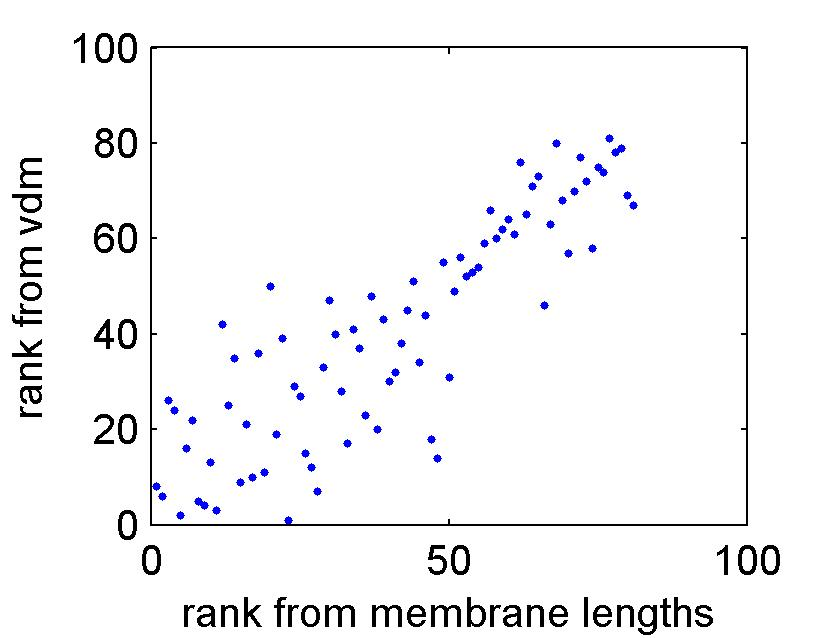
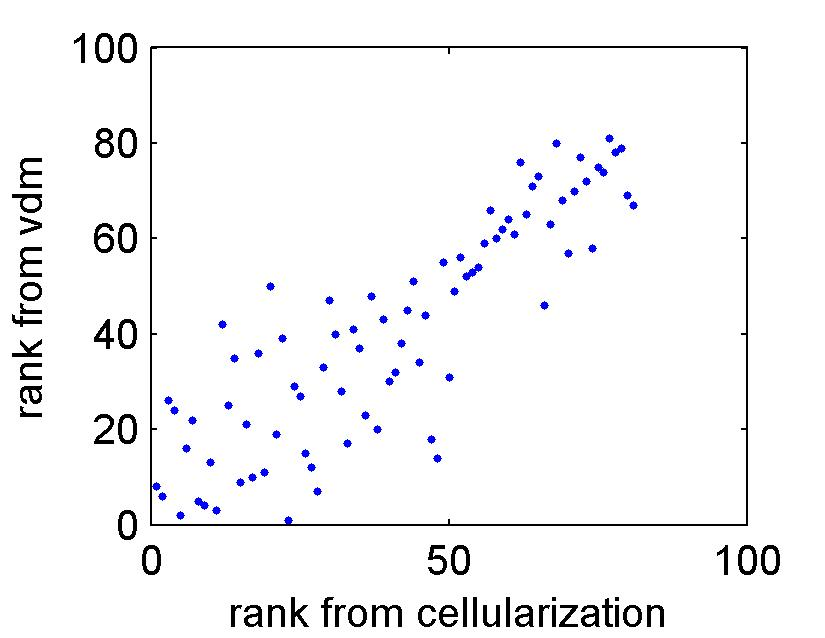
updated paper

Changed region(s): [[0.4848, 0.9232, 0.8788, 1.0], [0.2121, 0.9232, 0.4545, 0.9828]]

diff --git a/image_analysis_paper/pnas_draft.tex b/image_analysis_paper/pnas_draft.tex
@@ -230,7 +230,9 @@ Is this information essential?
 %
 Below we show that this is not the case and that both the temporal ordering and registration of images can be fully automated, without prior information about the underlying dynamics. 
 %
-Our algorithmic approach is based on diffusion maps, a broadly applicable technique for the discovery of low-dimensional structures in high-dimensional data sets. 
+Our temporal ordering analysis is based on diffusion maps, a broadly applicable technique for the discovery of low-dimensional structures in high-dimensional data sets.
+%
+Our image registration is done via angular synchronization, a relatively new technique for registering images which has been applied to reconstructing the three-dimensional structure of molecules from cryo-electron microscopy \cite{singer2011three}; here, we will use the algorithm to register {\em Drosophila} images.
 %
 The paper is organized as follows. 
 %
@@ -245,17 +247,19 @@ We conclude by discussion of the general requirements that must be satisfied for
 
 \section{Results and Discussion}
 
-We will first demonstrate our techniques considering {\em only} considering rotations. 
+We will first demonstrate our techniques using one-dimensional concentrations profiles.
 %
-We have converted the two-dimensional images shown in Figure \ref{subfig:images_scrambled} into concentration profiles on a ring (we will address the full two-dimensional images in a subsequent section).
+We have converted the two-dimensional images shown in Figure \ref{subfig:images_scrambled} into profiles defined on a ring, corresponding to the concentrations around the periphery of the embryo (we will address the full two-dimensional images in a subsequent section).
 %
-Figure \ref{subfig:1d_image_example} shows a typical image that we have converted to a one-dimensional concentration profile; the profile is discretized into 100 points. 
+Figure \ref{subfig:1d_image_example} shows a typical image that we have converted to a one-dimensional profile; the profile is discretized into 100 points, and so our signals will be 200-dimensional vectors (100 dimensions correspond to the red channel at the 100 discretization points, and 100 dimensions correspond to the green channel at the 100 discretization points). 
 %
-Rotation of this image corresponds to shifting (with periodic boundary conditions) the one--dimensional concentration profile. 
+Rotation of this image corresponds to shifting (with periodic boundary conditions) the one-dimensional concentration profile shown in the bottom of Figure \ref{subfig:1d_image_example}. 
 %
 Figure \ref{subfig:1d_unaligned_unordered} shows the concentration profiles for all the images in our data set. 
 %
 The concentration profiles have been stacked in an array, such that each row corresponds to one image.
+%
+The task is now to shift each profile left and right to optimally register/align the signals, and then temporally order the rows in the array to reconstruct the developmental trajectory.
 
 \subsection{Angular synchronization for image registration}
 
@@ -263,7 +267,7 @@ Often when one collects images in experiments, each image is taken in a differen
 %
 Therefore, the first task in image analysis is to align or {\em register} the set of images. 
 %
-This requires translating and rotating each image, so that the set of images are globally aligned.
+This requires rotating and/or translating each image, so that the set of images are globally aligned.
 
 There are many methods for image registration. 
 %
@@ -273,34 +277,33 @@ However, this method can result in many errors if the images are noisy, and can 
 %
 Instead, we will use a relatively new technique called angular synchronization\cite{singer2011angular} to register sets of images.
 %
-Angular synchronization first computes the pairwise alignments (translation + rotation) for every possible pair of images, effectively using each image as a template for every other image.
+Angular synchronization first computes the pairwise alignments (rotation for our one-dimensional profiles in Figure \ref{subfig:1d_unaligned_unordered}, or translation + rotation for the two-dimensional images in Figure \ref{subfig:images_scrambled}) for every possible pair of images, effectively using each image as a template for every other image.
 %
-From this large collection of pairwise alignments, it then tries to find the optimal translation and rotation for each image, such that these individual alignments are most consistent (in some metric) with the pairwise alignments.
+From this large collection of pairwise alignments, it then tries to find the optimal alignment for each image, such that these individual alignments are most consistent (in some metric) with the pairwise alignments (i.e., we would like the difference between the optimal rotations for two different concentration profiles to be as close as possible to the pairwise rotation needed to align the two profiles).
 %
-The algorithm solves this optimization problem by relaxing it to an eigenproblem; the top eigenvector(s) of a matrix (which contains information about the pairwise alignments) give the translation and rotation for each image.
+The algorithm solves this optimization problem by relaxing it to an eigenproblem; the top eigenvector(s) of a matrix (which contains information about the pairwise alignments) give the alignment for each image.
 %
 Because the method considers {\em all} pairwise alignments, angular synchronization is often much more robust to noise. 
 
 Figure \ref{subfig:1d_aligned_unordered} shows the concentration profiles from Figure~\ref{subfig:1d_unaligned_unordered}, now aligned using angular synchronization;
 the peaks are aligned, even though we input no information about the existence or location of these peaks into our algorithm.
 %
-We would like to note that, because angular synchronization only uses pairwise rotation information, the optimal rotations are recovered {\em up to} a global rotation, and we are permitted rotate every point by a constant rotation.
+We would like to note that, because angular synchronization only uses pairwise rotation information, the optimal rotations are recovered {\em up to} a global rotation; we are permitted rotate every point by a constant rotation.
 
 \subsection{Diffusion maps for temporal ordering}
 
 We will use diffusion maps (DMAPS) \cite{coifman2005geometric} to temporally order our data.
 %
-Although our data are high-dimensional (for example, we will work with 2-color images of 10000 pixels, and so we treat these images as 20000-dimensional vectors, where each dimension describes the intensity of one color in one pixel), we will assume that they lie on a one-dimensional, perhaps nonlinear curve.
+Although our data are high-dimensional (for example, we will work with 2-color images of 10000 pixels, and so our data are 20000-dimensional vectors, where each dimension describes the intensity of one color in one pixel), we will assume that they lie on a one-dimensional, but perhaps nonlinear, curve.
 %
-We further assume that curve can be parameterized by time.
+We further assume that this curve is monotonic in time.
 %
 Therefore, our goal is to {\em automatically} uncover a parameterization of this curve, so that we can sort/order our data along it, effectively ordering our data in time.
-
-To ``unravel'' this curve, we assume that data points which are close in the high-dimensional space should also be close on the curve.
 %
-We want to find a parameterization of the points, such that the points which are close in the original close are {\em as close as possible} in the parameterization.
+To parameterize this one-dimensional curve which lies in high-dimensional space, we assume that data points which are close in the high-dimensional space should also be close on the curve, 
+e.g, images which look similar will be close in the high-dimensional pixel space (they will have similar pixel intensities), and we would like these similar images to be close to each other in our trajectory.
 %
-This problem can be formulated as an optimization problem \cite{...}, and the solution is given by the top (non-trivial) eigenvector of a matrix which contains information about pairwise distances between the data points. 
+%We therefore want to find a parameterization of the points, such that the points which are close in the original, high-dimensional space are {\em as close as possible} in the parameterization.
 
 As an illustration of how local neighbors are important for parameterizing a curve, Figure~\ref{subfig:dmaps_edges} shows a data set which lies on a one-dimensional, nonlinear curve in two dimensions.
 %
@@ -309,14 +312,18 @@ The edges between the pairs of data points are colored according to the distance
 Visually, these dark edges are meaningful and informative of the structure of the data; they clearly delineate the one-dimensional curve in the data that our eye can extract.
 %
 Furthermore, the light edges are not informative and do not give any meaningful structure to the curve. 
+
+The problem of finding a parameterization of the data which forces nearby points together can be formulated as an optimization problem \cite{Belkin2003}, and the solution is given by the top (non-trivial) eigenvector of a matrix which contains information about pairwise distances between the data points. 
+%
+This procedure is called diffusion maps \cite{coifman2005geometric}; the formulation extends from curves to manifolds (i.e., we can search for an $n$-dimensional, rather than a one-dimensional, parameterization of the data, such that data points which are close in the high-dimensional space are also close in the $n$-dimensional parameterization). 
 %
 The DMAPS parameterization of these are data are shown in Figure~\ref{subfig:dmaps_color}.
 %
-The parameterization is what we would expect visually.
+The parameterization agrees with what our eye can detect visually.
 %
-Although this data is useful for illustrative purposes, it is 
+However, we will work with very high-dimensional data, rather than these two-dimensional data points; we therefore have no easy way to plot and visualize the data, and rather need DMAPS to automatically uncover such structure in the data.
 
-Given our set of registered signals, shown in Figure \ref{subfig:1d_aligned_unordered}, we now wish to order them {\em in time} so that we can reconstruct the developmental dynamics.
+Given our set of registered signals, shown in Figure \ref{subfig:1d_aligned_unordered}, we would like to use DMAPS to order them in time.
 %
 We use the total Euclidean distance (both the red and the green channels) between the aligned concentration profiles (the rows of Figure \ref{subfig:1d_aligned_unordered}) as our pairwise distances for DMAPS (in \eqref{eq:dmaps_W}).
 %
@@ -338,9 +345,9 @@ We can combine angular synchronization (for registration) and diffusion maps (fo
 %
 This technique is called vector diffusion maps (VDM) \cite{singer2012vector}.
 %
-It not only reduces the number of required eigencomputations, but also is much more robust to noise, as mistakes in alignment are also considered when ordering the data.
-
-Figure \ref{subfig:1d_aligned_ordered_vdm} shows the result of aligning and ordering the data in Figure \ref{subfig:1d_unaligned_unordered} using vector diffusion maps. 
+It both reduces the number of required eigencomputations, and is much more robust to noise, as mistakes in alignment are also considered when ordering the data.
+%
+Figure \ref{subfig:1d_aligned_ordered_vdm} shows the result of simultaneously registering and ordering the data in Figure \ref{subfig:1d_unaligned_unordered} using VDM. 
 %
 The data has been ordered by $\psi_{1, 3}$, the first (non-trivial) VDM coordinate. 
 
@@ -348,10 +355,10 @@ The data has been ordered by $\psi_{1, 3}$, the first (non-trivial) VDM coordina
 
 The same methodologies (with small modifications) can be applied to two-dimensional images.
 %
-Instead of having $100$-dimensional concentration vectors, we now work with images containing $10000$ pixels.
+Instead of having $200$-dimensional concentration vectors, we now work with $20000$-dimensional images ($100x100$ pixel images containing two color channels).
 %
-The two-dimensional images are registered with respect to all possible translations and rotations; 
-we convert two-dimensional translations and rotations to three-dimensional rotations so that we can apply angular synchronization or vector diffusion maps. 
+The two-dimensional images are registered with respect to translations and rotations 
+(we convert the two-dimensional translations and rotations to three-dimensional rotations so that we can apply angular synchronization or vector diffusion maps). 
 %
 We used vector diffusion maps to align and order the images shown in Figure~\ref{subfig:images_scrambled}.
 %
@@ -359,21 +366,21 @@ The results are shown in Figure~\ref{subfig:images_vdm}.
 %
 The peaks are now aligned, and the intensity of dpERK grows as a function of time, as expected.
 
-In these {\em Drosophila} experiments, we have the luxury of an independent time marker from membranes.
+In these {\em Drosophila} experiments, we have the luxury of an independent measure of time from cellularization.
 %
-We can therefore evaluate the quality of our orderings obtained from VDM by comparing with the orderings obtained from the membrane markers.
+We can therefore evaluate the quality of our orderings obtained from VDM by comparing with the orderings obtained from cellularization.
 %
-The rank of each data point, computed using VDM, versus the rank of each data point computed from the membrane thickness, is shown in Figure~\ref{subfig:rank_corr}.
+The rank of each data point, computed using VDM, versus the rank of each data point computed from cellularization, is shown in Figure~\ref{subfig:rank_corr}.
 %
-The rank correlation is 0.8665, indicating that our ordering from VDM is consistent with the ordering obtained from the membrane thickness.
+The rank correlation is 0.8665, indicating that our ordering from VDM is consistent with the ordering obtained from cellularization.
 %
-There is more scatter for the younger embryos; this is to be expected, as the dpERK signal is very low in this range.
+There is more scatter for the younger embryos; this is to be expected, as the dpERK signal, which is the main feature that changes with time, is very low in this range.
 
-Although our methods are fairly robust, they do require a sufficient amount of data to ``see'' a smooth developmental trajectory.
+Although our methods are fairly robust, they do require a sufficient amount of data so that DMAPS can ``see'' a smooth trajectory.
 %
-We evaluated how much data is required by subsampling our data set (with replacement), and for each subsample, computing the temporal ordering using VDM and calculating the rank correlation between this ordering and the ordering using the membrane markers.
+We evaluated how much data is required by subsampling our data set (with replacement), and for each subsample, computing the temporal ordering using VDM and calculating the rank correlation between this ordering and the ordering from cellularization.
 %
-The results are shown in Figure~\ref{subfig:bootstrap}.
+The results are shown in Figure~\ref{subfig:bootstrap} (each data point is averaged over 50 random subsamples).
 %
 For small data sets, the average rank correlation is very low, indicating that the orderings from VDM are inaccurate. 
 %
@@ -384,11 +391,11 @@ rank correlation begins to plateau and VDM can accurately order the data.
 
 We have presented mathematical techniques for registration and temporal ordering of images arising in studies of developmental biology.
 %
-Although we illustrated our methods using a specific data set arising in a study of {\em Drosophila} embryogenesis, the techniques are very general and require little knowledge of the image features or the developmental dynamics.
+Although we illustrated our methods using a specific data set from a study of {\em Drosophila} embryogenesis, the techniques are very general and require little knowledge of the image features or the developmental dynamics.
 
-We would like to note that there have been multiple other works with temporally ordering biological data (RNA data, cell morphology data, disease progression data, etc.). 
+We would like to note that there have been multiple other works with temporally ordering biological data (RNA-seq, cell morphology, disease progression, etc.). 
 %
-The majority of these works temporally order the data either by solving a travelling salesman probelem, or by constructing a minimum spanning tree on the data.
+The majority of these works temporally order the data either by solving a traveling salesman problem, or by constructing a minimum spanning tree on the data.
 %
 We, instead, use nonlinear dimensionality reduction techniques, to construct a one-dimensional embedding of the data.
 %
@@ -406,7 +413,7 @@ Furthermore, our methods can only provide a temporal ordering for the data, and 
 %
 Regardless, we are confident that our methods hold great promise in areas where cross-sectional imaging data is readily available and relatively inexpensive to obtain. 
 %
-There are many applications for which develpomental dynamics are of interest, and yet there is no time marker to use to reconstruct the dynamics from such cross-sectional data. 
+They provide a simple and cost-effective alternative to live imaging or ordering images by hand in order to gain insight into the developmental dynamics.
 
 %% == end of paper:
 
@@ -418,7 +425,7 @@ There are many applications for which develpomental dynamics are of interest, an
 
 \begin{materials}
 
-\section{Angular synchronization}
+\section{Angular synchronization \cite{singer2011angular}}
 
 Let $x_1, \dots, x_m \in \mathbb{R}^n$ denote the signals that we wish to align with respect to rotations.
 %
@@ -534,7 +541,7 @@ We can now estimate $\theta_{i}$ by inverting \eqref{eq:R_theta}, and then regis
 %%
 %Because $H$ and $H^2$ have the same eigenvectors, our problem formulation accounts for not only pairwise alignment information, but also these higher-order considerations. 
 
-\section{Diffusion Maps}
+\section{Diffusion Maps \cite{coifman2005geometric}}
 
 %We will uncover a parameterization of this curve by only considering {\em local} neighbors of each data point.
 %%
@@ -577,7 +584,7 @@ $\epsilon$ can be chosen using several techniques (see, for example \cite{coifma
 
 We then want to find a coordinate $y$ such that $y(i)$ and $y(j)$ if $W_{ij}$ is large (i.e., $y$ preserves local information, and so points that are close in the original space are also close in the coordinate $y$).
 %
-We therefore want to solve the following optimization problem
+We therefore want to solve the following optimization problem \cite{Belkin2003}
 \begin{equation} \label{eq:dmaps_opt_problem}
 \argmin_{y} \sum_{ij} W_{ij} (y(i) - y(j))
 \end{equation}
@@ -605,7 +612,7 @@ In our setup, we assume that this one dimension, parameterized by $\phi_2$, is c
 %
 Therefore, ordering our data by $\phi_2(j)$ will allow us to automatically order our data in time.
 
-\section{Vector Diffusion Maps}
+\section{Vector Diffusion Maps \cite{singer2012vector}}
 
 For vector diffusion maps, we construct the matrix $S \in \mathbb{R}^{md \times md}$, with
 \begin{equation}
@@ -628,7 +635,7 @@ In general, the embedding coordinates are given by
 \end{equation}
 where $\phi_k(i) \in \mathbb{R}^d$ denotes the $i^{th}$ block of $\phi_k$.
 %
-If we assume that our data are one-dimensional, and that the rotations and the dynamics are uncoupled and therefore separable, one can show that a parameterization of our data (i.e. the analog of $\phi_2$ from the diffusion maps case) is given by $\psi_{1,d+1}$.
+If we assume that our data are one-dimensional, and that the rotations and the dynamics are uncoupled and therefore separable, one can show that a parameterization of our data (i.e., the analog of $\phi_2$ from the diffusion maps case) is given by $\psi_{1,d+1}$.
 %
 If no such claims can be made, then one often runs a second step of diffusion maps, using $\psi_{k,l}$ as the coordinates, in order to uncover the true manifold modulo symmetries. 
 
@@ -644,7 +651,7 @@ However, the typical matrix representation for the group of two-dimensional tran
 %
 Instead, we can (approximately) represent rotations and translations in two-dimensions using three-dimensional rotation matrices.
 %
-We do this by projecting the image onto a portion of the surface of a (three-dimensional) sphere (see Figure \ref{fig:SO3_picture}).
+We do this by projecting the image onto a portion of the surface of a (three-dimensional) sphere \cite{singer2011angular}. %(see Figure \ref{fig:SO3_picture}).
 %
 Rotations in two-dimensions now correspond to rotations around one principal axis in three-dimensions, and translations in two-dimensions correspond (approximately) to rotations around the other two principal axes in three-dimensions. (Clearly, not all translations can be described this way, as translations can range from $-\infty$ to $+ \infty$, and rotations are only from $0$ to $2 \pi$. However, the images we will be considering are already mostly centered, and so we are only interested in small translations that are well within the $[0, 2\pi)$ range.)
 %
@@ -756,6 +763,19 @@ R_{3,3} & = \cos(\alpha)\cos(\beta)
 We then invert \eqref{eq:angle_relations} to compute the optimal translation and rotation for each image from the Euler angles.
 %
 We round the optimal translations to the nearest integer to remove the need for interpolation when translating the images.  
+
+\section{Rank correlation}
+
+We use Spearman's rank correlation coefficient as a metric to evaluate the quality of our orderings.
+%
+Given data $x_1, \dots, x_m$ and $y_1, \dots, y_m$ for which we would like to compute the rank correlation coefficient, we first compute the ranks $X_i$ and $Y_i$ of each data point $x_i$ and $y_i$ in their respective data sets.
+%
+The rank correlation coefficient, $\rho$, is then given by
+\begin{equation}
+\rho = \frac{\sum_{i=1}^m (X_i - \overline{X})(Y_i - \overline{Y})}{\sqrt{\sum_{i=1}^m (X_i - \overline{X})^2 \sum_{i=1}^m (Y_i - \overline{Y})^2}}
+\end{equation}
+where $\overline{X}$ and $\overline{Y}$ are the means of $X_1, \dots, X_m$ and $Y_1, \dots, Y_m$, respectively.
+
 \end{materials}
 
 
@@ -852,7 +872,7 @@ We round the optimal translations to the nearest integer to remove the need for 
 \includegraphics[width=\textwidth]{fish2}
 \caption{}
 \end{subfigure}
-\caption{Schematic illustration of reconstructing dynamics from cross-sectional data. (a) Fish, each in a different orientation and a different stage of development. (b) Fish, now registered and temporally ordered. This is easy to do by hand because the data set is small and the developmental changes are easy to recognize.} 
+\caption{Schematic illustration of reconstructing dynamics from cross-sectional data. (a) Fish, each in a different orientation and a different stage of development. (b) Fish, now registered and temporally ordered. For this example, the registration and ordering is easy to do by hand because the data set is small and the developmental changes are easy to recognize.} 
 \label{fig:fish}
 \end{figure}
 
@@ -867,7 +887,7 @@ We round the optimal translations to the nearest integer to remove the need for 
 \caption{}
 \label{subfig:images_hand_ordered}
 \end{subfigure}
-\caption{{\em Drosophila} data. (a) Dorsal-ventral images of {\em Drosphila} embryos in nuclear cycle 14, each stained for Dorsal (green) and dpERK (red). (b) Images from (a), now registered using the location of the Dorsal peak, and temporally ordered using the membrane marker.} 
+\caption{{\em Drosophila} data. (a) Dorsal-ventral images of {\em Drosphila} embryos, each fluorescentally stained for Dorsal (green) and dpERK (red). (b) Images from (a), now registered using the location of the Dorsal peak, and temporally ordered using cellularization.} 
 \label{fig:fluorescent_images}
 \end{figure}
 
@@ -882,7 +902,7 @@ We round the optimal translations to the nearest integer to remove the need for 
 \caption{}
 \label{subfig:dmaps_color}
 \end{subfigure}
-\caption{Diffusion maps illustration. (a) Data points in two dimensions which lie on a one-dimensional nonlinear curve. Each pair of data points is connected by an edge, and the edge intensity is related to the distance between the points (close data points are connected by dark edges). (b) The data in (a), colored by the first (non-trivial) DMAPS eigenvector, $\phi_2$. The color parameterizes the one-dimensional curve. }
+\caption{Diffusion maps illustration. (a) Data points (in blue) which lie on a one-dimensional nonlinear curve in two dimensions. Each pair of data points is connected by an edge, and the edge intensity is related to the distance between the points (close data points are connected by dark edges). (b) The data in (a), colored by the first (non-trivial) DMAPS eigenvector, $\phi_2$. The color parameterizes the one-dimensional curve. }
 \label{fig:dmaps_schematic}
 \end{figure}
 
@@ -912,14 +932,15 @@ We round the optimal translations to the nearest integer to remove the need for 
 \caption{}
 \label{subfig:1d_aligned_ordered_vdm}
 \end{subfigure}
-\caption{(a) One-dimensional concentration profile on a ring (top), and the corresponding profile on a line (bottom). (b) The concentration profiles corresponding to the images in Figure \ref{fig:fluorescent_images}. Each row in the array corresponds to one image. (c) The concentration profiles in (b), now registered using angular synchronization. (d) The concentration profiles in (c), now temporally ordered using diffusion maps. (e) The concentration profiles in (b), now simultaneously registered and temporally ordered using vector diffusion maps. }
+\caption{Illustration of methodologies using one-dimensional profiles. (a) One-dimensional concentration profile on a ring (top), and the corresponding profile on a line (bottom). Rotation of the ring corresponds to shifting the line left and right (with periodic boundary conditions). (b) The concentration profiles corresponding to the images in Figure \ref{fig:fluorescent_images}. Each row in the array corresponds to one image. (c) The concentration profiles in (b), now registered using angular synchronization. (d) The concentration profiles in (c), now temporally ordered using diffusion maps. The profiles are sorted according to the value of the first non-trivial DMAPS component, $\phi_2$. (e) The concentration profiles in (b), now simultaneously registered and temporally ordered using vector diffusion maps. The profiles are sorted according to the value of the first non-trivial VDM component, $\psi_{1, 3}$.}
 \label{fig:1d_demo}
 \end{figure*}
 
 \begin{figure*}
 \begin{minipage}{0.6\textwidth}
 \begin{subfigure}{\textwidth}
-\includegraphics[width=\textwidth]{registered_ordered_vdm_2d}
+%\includegraphics[width=\textwidth]{registered_ordered_vdm_2d}
+\includegraphics[width=\textwidth]{test}
 \caption{}
 \label{subfig:images_vdm}
 \end{subfigure}
@@ -936,7 +957,7 @@ We round the optimal translations to the nearest integer to remove the need for 
 \label{subfig:bootstrap}
 \end{subfigure}
 \end{minipage}
-\caption{(a) The images in Figure~\ref{fig:fluorescent_images}, aligned and temporally ordered using vector diffusion maps. (b) The rank correlation between the ordering of the images in (a) using vector diffusion maps, and the ordering obtained using the membrane markers. (c) The rank correlation coefficient as a function of the number of data points. }
+\caption{(a) The images in Figure~\ref{fig:fluorescent_images}, aligned and temporally ordered using vector diffusion maps. The images are sorted according to the value of the first non-trivial VDM component, $\psi_{1, 4}$. (b) The rank correlation between the ordering of the images in (a) using vector diffusion maps, and the ordering of in the images in Figure~\ref{subfig:images_hand_ordered}, obtained using cellularization. (c) The rank correlation coefficient between the VDM ordering and the cellularization ordering as a function of the number of data points. }
 \end{figure*}
 
 %\begin{figure*}

diff --git a/image_analysis_paper/make_figures_large_dataset_color.m b/image_analysis_paper/make_figures_large_dataset_color.m
@@ -180,7 +180,7 @@ figure;
 set(gcf, 'papersize', [11/4 8.5/4])
 set(gcf, 'paperposition', [0 0 11/4 8.5/4])
 plot(ranks_from_membranes, ranks_from_vdm, '.')
-xlabel('rank from membrane lengths')
+xlabel('rank from cellularization')
 ylabel('rank from vdm')
 print(sprintf('%s/rank_corr_vdm', im_save_dir), fmt, res);
 
